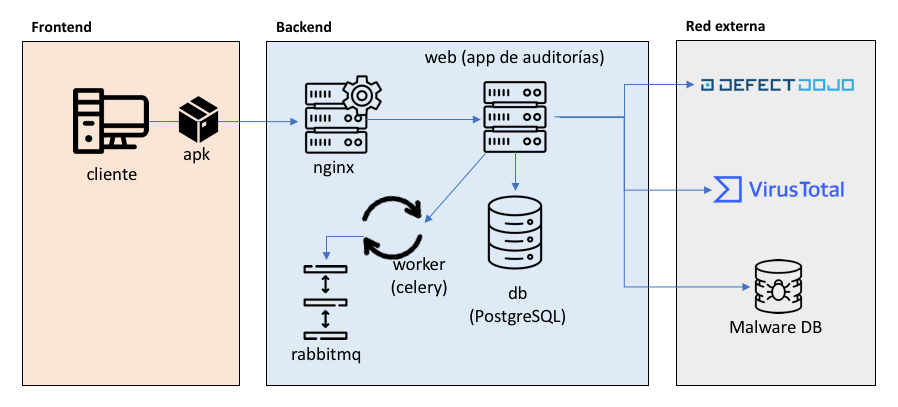
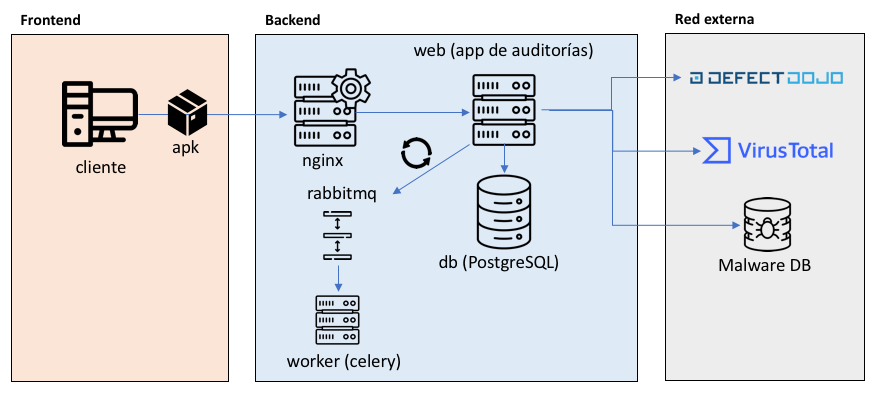
Fixed problem creating scan in API and updated README

diff --git a/app/api.py b/app/api.py
@@ -3,6 +3,7 @@ from app.serializers import *
 from app import analysis
 from rest_framework import viewsets, permissions
 from rest_framework.parsers import MultiPartParser, FormParser
+from app.worker.tasks import task_create_scan
 
 class IsUserOrReadOnly(permissions.BasePermission):
     def has_object_permission(self, request, view, obj):
@@ -25,8 +26,10 @@ class ScanViewSet(viewsets.ModelViewSet):
     parser_classes = (MultiPartParser, FormParser)
     
     def perform_create(self, serializer):
-        obj = serializer.save(user=self.request.user, status='In progress', progress=1)
-        analysis.start_analysis(obj)
+        scan = serializer.save(user=self.request.user, status='In progress', progress=1)
+        task_id = task_create_scan.delay(scan.id)
+        scan.task = task_id.id
+        scan.save()
  
 class FindingViewSet(viewsets.ModelViewSet):
     serializer_class = FindingSerializer
@@ -35,4 +38,3 @@ class FindingViewSet(viewsets.ModelViewSet):
 
     def perform_create(self, serializer):
         obj = serializer.save(user=self.request.user)
-

diff --git a/README.md b/README.md
@@ -29,6 +29,8 @@ Django Web application for performing Static Analysis and detecting malware in A
 
 - **db**: PostgreSQL 13
 - **nginx**: Nginx 1.18.0
+- **rabbitmq**: RabbitMQ 3.8.11
+- **worker**: Celery 5.0.5
 - **web**: Mobile Audit App
 
 ### Docker Base images
@@ -37,6 +39,7 @@ Image is based on python buster. Link to [Docker Hub image](https://hub.docker.c
 
 | Image |  Tags | Base |
 |--------------------|-------|---------------------|
+| mpast/mobile_audit | 1.3.0 | python:3.9.1-buster |
 | mpast/mobile_audit | 1.2.0 | python:3.9.1-buster |
 | mpast/mobile_audit | 1.1.0 | python:3.9.0-buster |
 | mpast/mobile_audit | 1.0.0 | python:3.9.0-buster |
